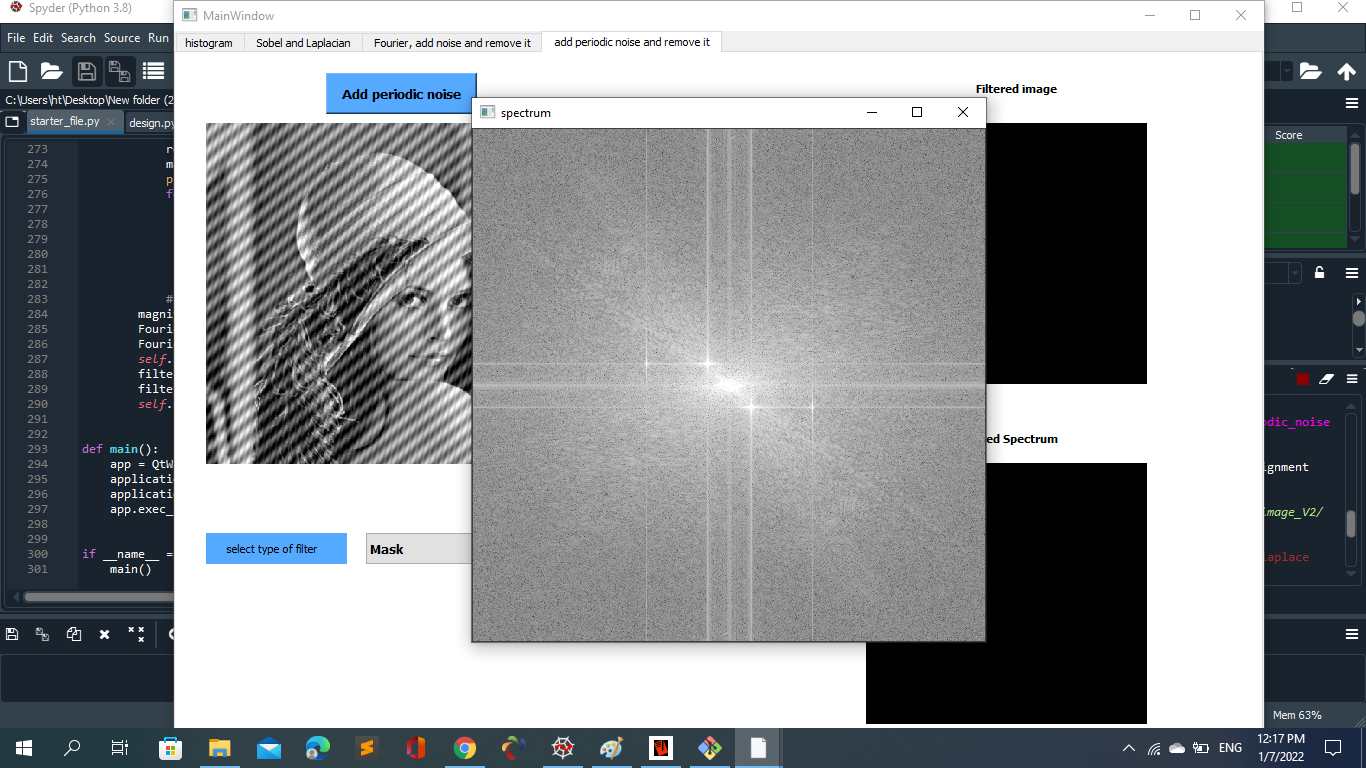
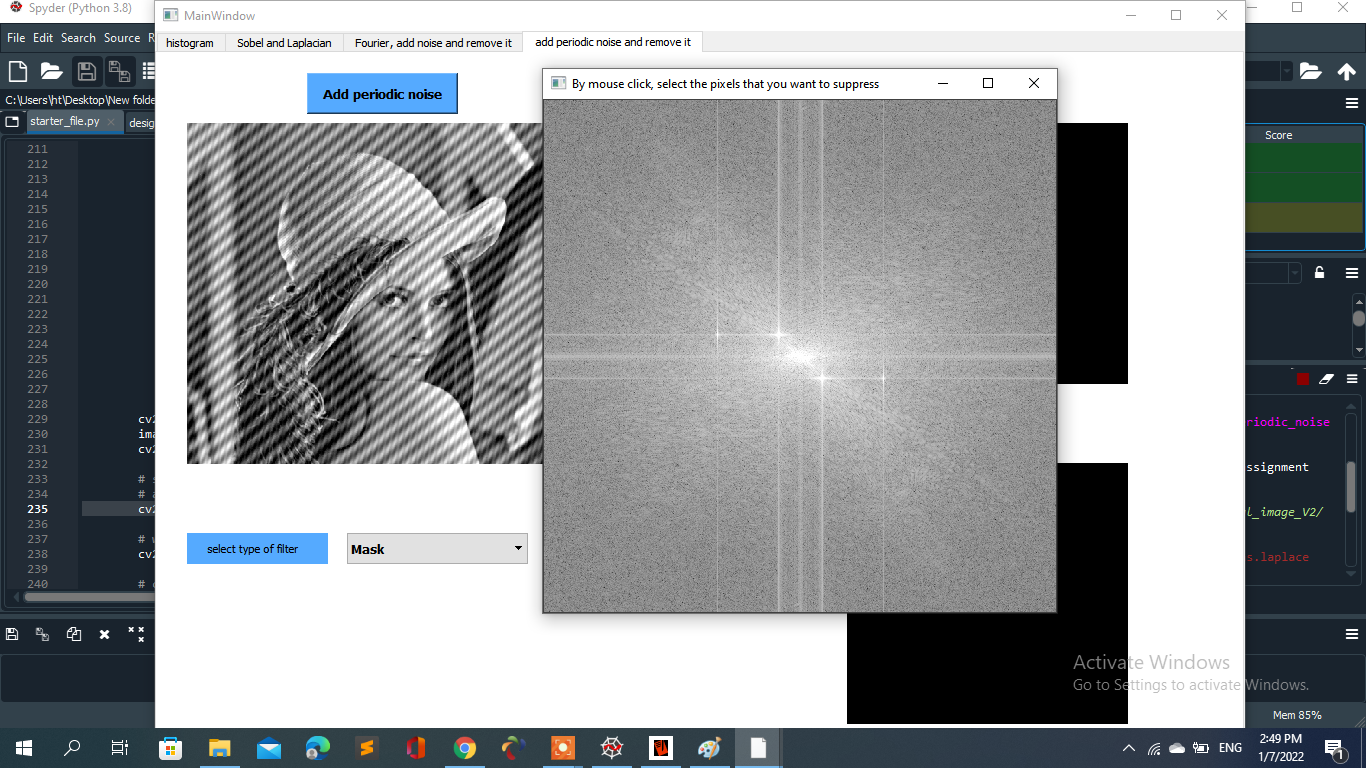
report

diff --git a/starter_file.py b/starter_file.py
@@ -204,7 +204,7 @@ class ApplicationWindow(QtWidgets.QMainWindow):
             		cv2.putText(image, str(x) + ',' +
             					str(y), (x,y), font,
             					1, (255, 0, 0), 2)
-            		cv2.imshow('spectrum', image)
+            		cv2.imshow('By mouse click, select the pixels that you want to suppress', image)
             	
             	# checking for right mouse clicks	
             	if event==cv2.EVENT_RBUTTONDOWN:
@@ -224,15 +224,15 @@ class ApplicationWindow(QtWidgets.QMainWindow):
             					str(g) + ',' + str(r),
             					(x,y), font, 1,
             					(255, 255, 0), 2)
-            		cv2.imshow('spectrum', image)
+            		cv2.imshow('By mouse click, select the pixels that you want to suppress', image)
             	
         cv2.imwrite('outputs/magnitude_spectrum_noise.jpg', spectrum)
         image = cv2.imread('outputs/magnitude_spectrum_noise.jpg')
-        cv2.imshow('spectrum', image)
+        cv2.imshow('By mouse click, select the pixels that you want to suppress', image)
         
         # setting mouse handler for the image
         # and calling the click_event() function
-        cv2.setMouseCallback('spectrum', click_event)
+        cv2.setMouseCallback('By mouse click, select the pixels that you want to suppress', click_event)
         
         # wait for a key to be pressed to exit
         cv2.waitKey(0)
